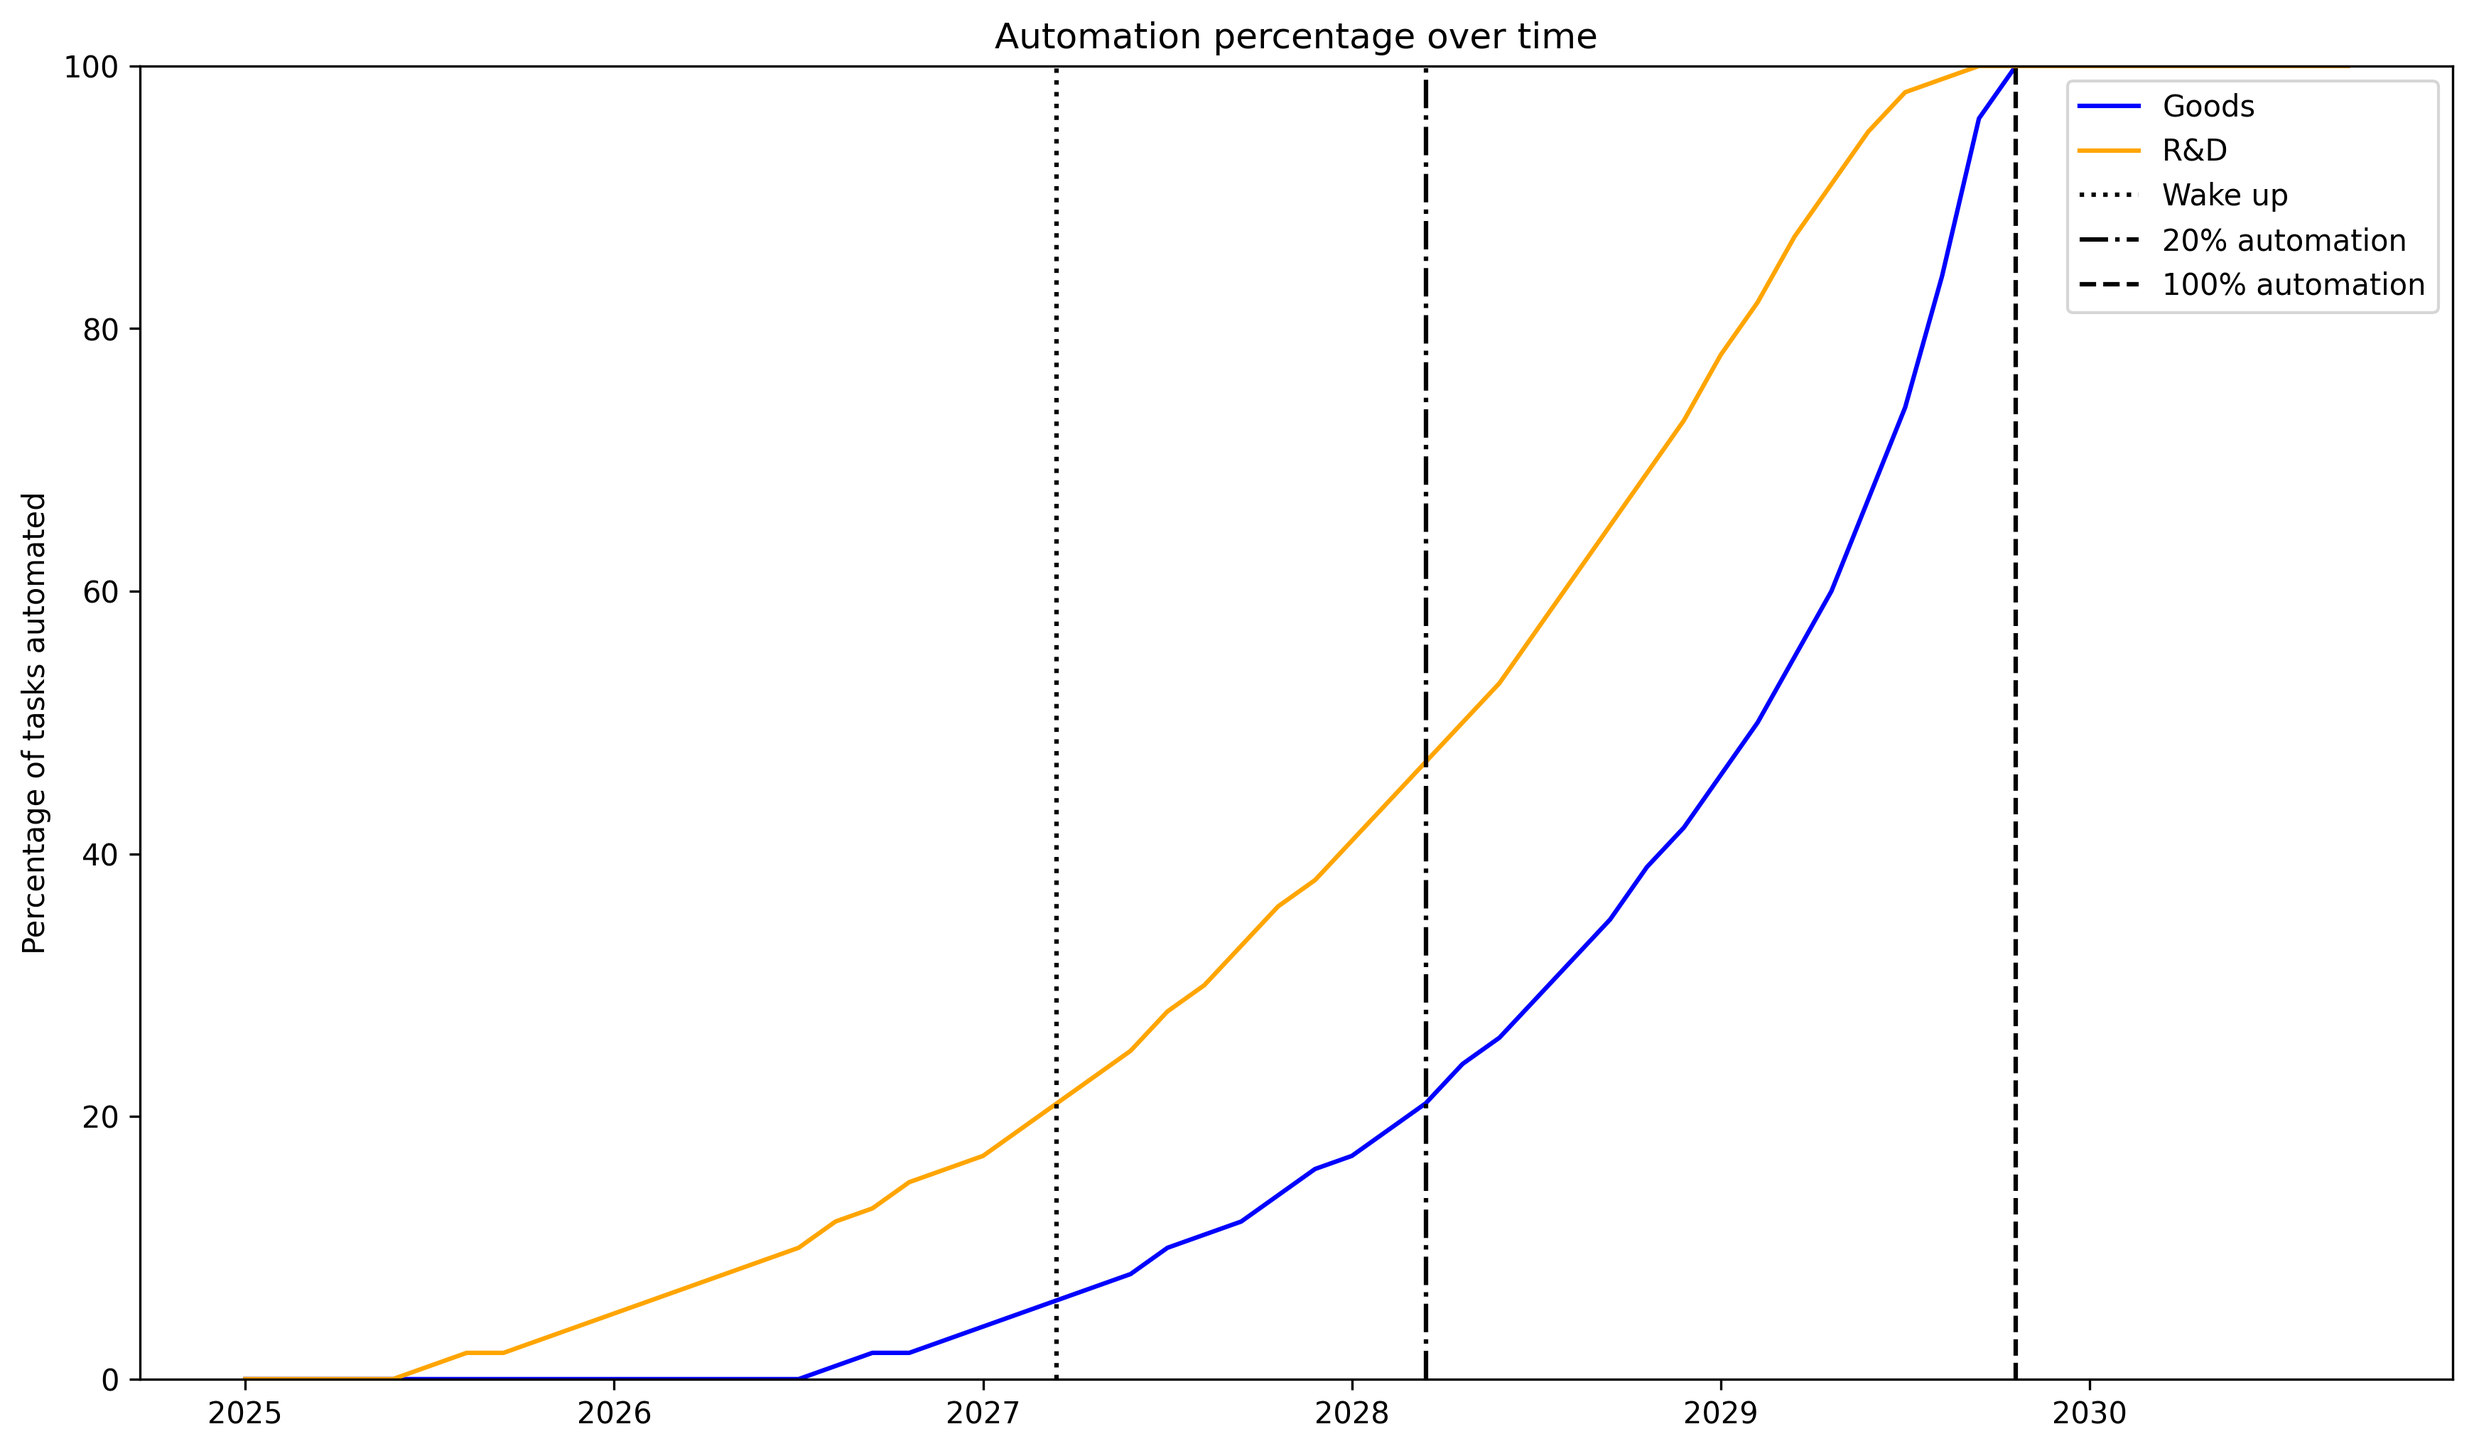
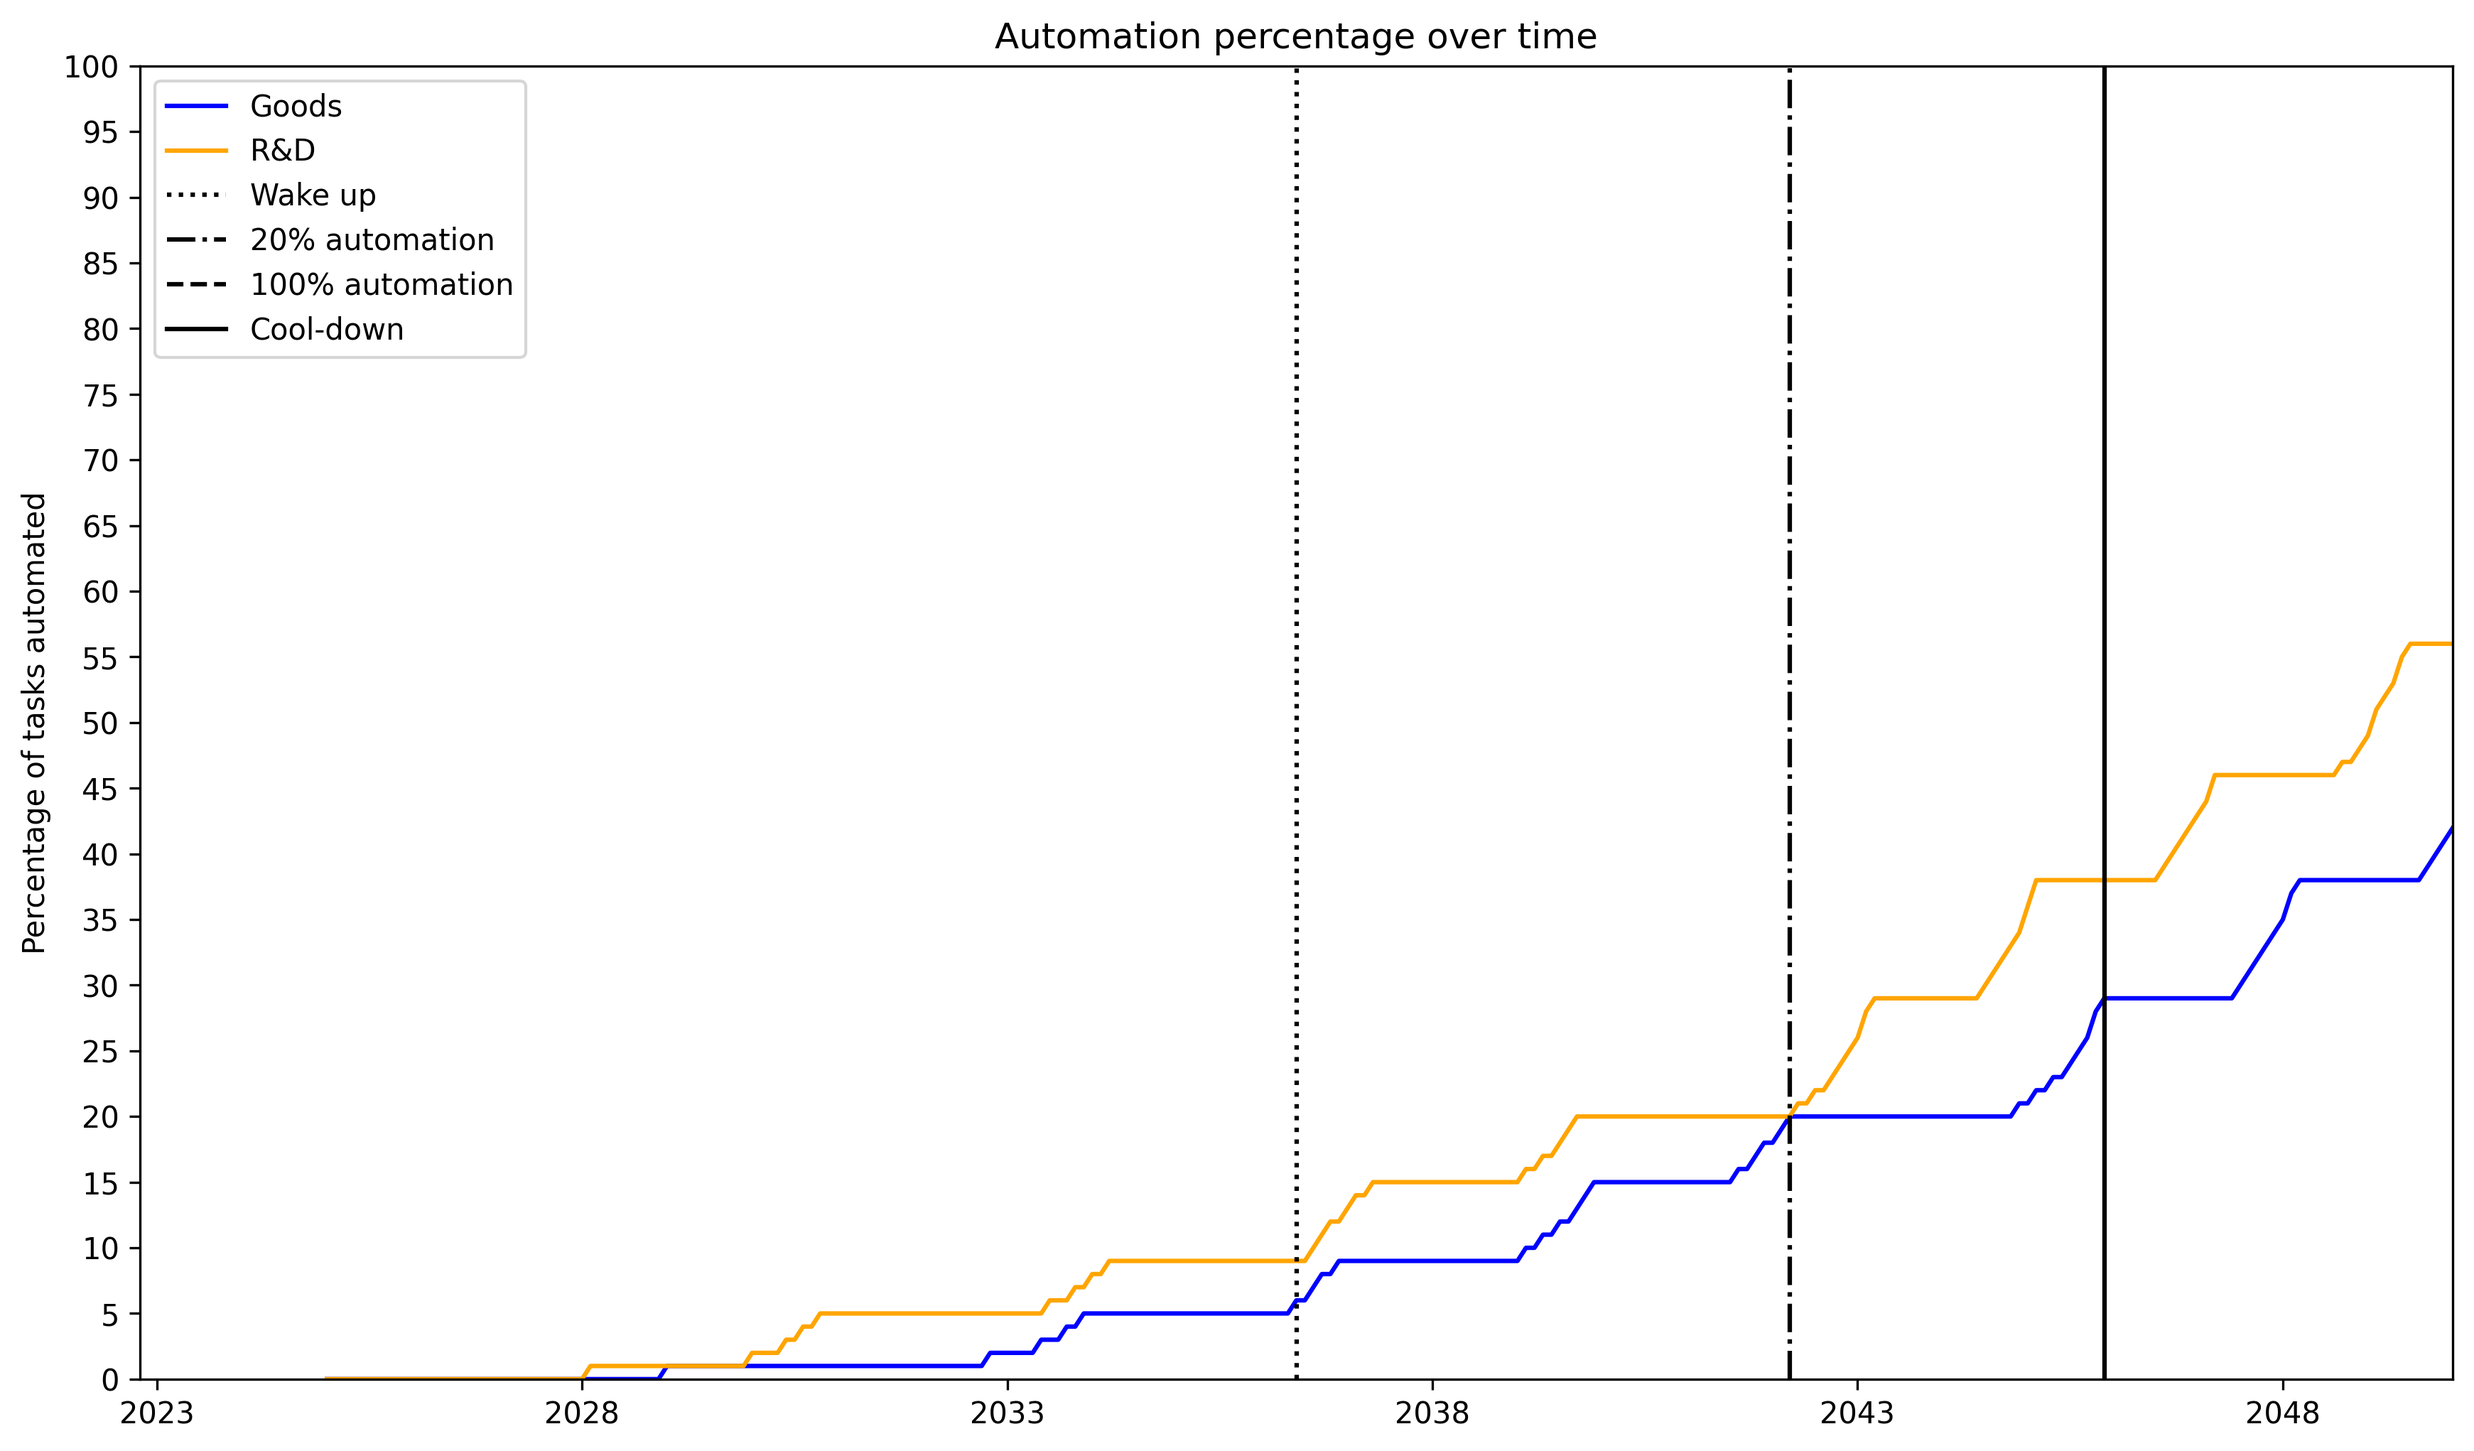
add cooldown mechanism and growth plots

diff --git a/ftm/core/model.py b/ftm/core/model.py
@@ -145,6 +145,21 @@ class SimulateTakeOff():
 
       # Metadata / feature flags
       runtime_training_tradeoff_enabled = True,
+
+      # Fractional inputs cooldown growth rates
+      frac_capital_hardware_rnd_growth_cooldown = 0,
+      frac_labour_hardware_rnd_growth_cooldown = 0,
+      frac_compute_hardware_rnd_growth_cooldown = 0,
+
+      frac_labour_software_rnd_growth_cooldown = 0,
+      frac_compute_software_rnd_growth_cooldown = 0,
+
+      frac_gwp_compute_growth_cooldown = -0.05,
+      frac_compute_training_growth_cooldown = -0.25,
+
+      # Cool-down trigger parameters
+      cooldown_threshold = 0.25,
+      cooldown_window = 2,
       ):
 
     if t_start is None: t_start = get_option('t_start', 2022)
@@ -395,6 +410,7 @@ class SimulateTakeOff():
     self.state_def.rampup = self.state_var(dtype=bool)
     self.rampup_start = None
     self.rampup_mid = None
+    self.cooldown_start = None  # first timestep entering cooldown
 
     # Goods vs compute investment split
     self.state_def.frac_gwp_compute = self.state_var()
@@ -414,6 +430,9 @@ class SimulateTakeOff():
     self.state_def.frac_capital_goods = self.state_var()
     self.state_def.frac_labour_goods = self.state_var()
     self.state_def.frac_compute_goods = self.state_var()
+
+    # Cool-down phase indicator (mirrors ramp-up but for slow automation periods)
+    self.state_def.cooldown = self.state_var(dtype=bool)
 
   def create_simulation_state_total_input(self):
     self.state_def.capital = self.state_var()
@@ -725,6 +744,9 @@ class SimulateTakeOff():
     self.frac_compute_goods[0] = \
       1 - self.frac_compute_hardware_rnd[0] - self.frac_compute_software_rnd[0] \
         - self.frac_compute_training[0]
+
+    # Initialise cool-down state
+    self.cooldown[0] = False
 
   #############################################################################
 
@@ -1301,14 +1323,48 @@ class SimulateTakeOff():
     not self.frac_automatable_tasks_goods_no_tradeoff[t_idx-2] >= 1:
       self.agi_year = t_year
 
-    def update_frac_input(current_frac, growth_param, growth_param_rampup, max_frac):
-      # Select the appropriate growth parameter (normal vs ramp-up) and
-      # convert it to a numeric value for the current timestep.
-      rate = self._param_value(
-        growth_param_rampup if self.rampup[t_idx] else growth_param,
-        t_idx,
-        t_year,
-      )
+    # ------------------------------------------------------------
+    # Cool-down detection: check relative increase in automation
+    # over a window *T* years. If the increase is below a threshold
+    # *x*, mark the current timestep as being in cool-down.
+    # ------------------------------------------------------------
+
+    cooldown_window = getattr(self, 'cooldown_window', 1.0)      # years
+    cooldown_threshold = getattr(self, 'cooldown_threshold', 0.05)  # 5 % relative
+
+    prev_cool = self.cooldown[t_idx-1] if t_idx > 1 else False
+    self.cooldown[t_idx] = False
+    window_idx = int(round(cooldown_window / self.t_step))
+    if t_idx - 1 - window_idx >= 0:
+      auto_now = self.frac_tasks_automated_goods[t_idx-1]
+
+      # Do not enter cool-down once the economy is fully automated
+      if auto_now < 1.0:
+        auto_prev = self.frac_tasks_automated_goods[t_idx-1-window_idx]
+        if auto_prev > 0:
+          rel_inc = (auto_now - auto_prev) / auto_prev
+        else:
+          rel_inc = np.inf  # Treat as large increase if base is ~0
+
+        self.cooldown[t_idx] = rel_inc < cooldown_threshold
+
+        # Store the first calendar year that cooldown begins
+        if self.cooldown[t_idx] and not prev_cool:
+          self.cooldown_start = t_year
+      else:
+        # Fully automated – never cool down afterwards
+        self.cooldown[t_idx] = False
+
+    def update_frac_input(current_frac, growth_param, growth_param_rampup, growth_param_cooldown, max_frac):
+      """Update a fractional input under normal, ramp-up, or cool-down."""
+      if self.rampup[t_idx]:
+        selected = growth_param_rampup
+      elif self.cooldown[t_idx]:
+        selected = growth_param_cooldown
+      else:
+        selected = growth_param
+
+      rate = self._param_value(selected, t_idx, t_year)
       frac = current_frac * np.exp(self.t_step * rate)
       return min(frac, max_frac)
 
@@ -1324,18 +1380,28 @@ class SimulateTakeOff():
       ]
 
     for frac_metric in frac_metrics:
-      getattr(self, frac_metric)[t_idx] =\
+      getattr(self, frac_metric)[t_idx] = \
         update_frac_input(
-          getattr(self,frac_metric)[t_idx-1],
-          getattr(self,f'{frac_metric}_growth'),
-          getattr(self,f'{frac_metric}_growth_rampup'),
-          getattr(self,f'{frac_metric}_ceiling'),
-          )
+          getattr(self, frac_metric)[t_idx-1],
+          getattr(self, f'{frac_metric}_growth'),
+          getattr(self, f'{frac_metric}_growth_rampup'),
+          getattr(self, f'{frac_metric}_growth_cooldown', 0),
+          getattr(self, f'{frac_metric}_ceiling'),
+        )
 
     # Cap the growth of the fraction of FLOP before rampup
     if self.money_spent_training[t_idx-1] > self.money_cap_training_before_wakeup \
     and not self.rampup[t_idx-1]:
       self.frac_compute_training[t_idx] = self.frac_compute_training[t_idx-1]
+
+    # ------------------------------------------------------------------------------------------------------------------
+    # Training compute shut-off after cool-down
+    # ------------------------------------------------------------------------------------------------------------------
+    # Once the economy enters a cool-down phase (or if it has been in cool-down before),
+    # we assume that scaling up model size is no longer economically attractive.  We
+    # therefore set the fraction of compute devoted to training to zero **permanently**.
+    if self.cooldown[t_idx] or (t_idx > 0 and self.frac_compute_training[t_idx-1] == 0):
+      self.frac_compute_training[t_idx] = 0.0
 
     # Goods production fractional inputs
     self.frac_capital_goods[t_idx] = \
@@ -1901,6 +1967,13 @@ class SimulateTakeOff():
                 color=line_color,
                 label='100% automation')
 
+    # Cool-down start vertical line
+    if getattr(self, 'cooldown_start', None) is not None:
+      plt.axvline(self.cooldown_start,
+                linestyle='solid',
+                color=line_color,
+                label='Cool-down')
+
   def plot_compute_decomposition(self, new_figure = True, crop_after_full_automation = True, crop_at_year = None):
     """ Show the growth of the factors that drive compute
     """
@@ -2143,15 +2216,43 @@ if __name__ == "__main__":
     parameter_table = get_parameter_table(tradeoff_enabled="from_spreadsheet")
     best_guess_parameters = {parameter : row['Best guess'] for parameter, row in parameter_table.iterrows()}
     model = SimulateTakeOff(**best_guess_parameters)
+    # Ensure `title` is always defined so that plot customisations work
+    title = getattr(model, 'title', None)
 
   model.run_simulation()
 
+  # ----------------------------
+  # Plot customisation settings
+  # ----------------------------
+  # If the JSON title corresponds to the "updated_conservative" scenario we want
+  # dedicated plot styling: only show every 5 calendar years on the x-axis and
+  # truncate all figures at (calendar) year 2050.
+  updated_conservative = (title == 'updated_conservative')
+  _YEAR_SHIFT = 3  # All existing plots display years shifted by +3
+  _PLOT_CAP_YEAR = 2050
+  _PLOT_CAP_X = _PLOT_CAP_YEAR - _YEAR_SHIFT  # coordinate after shift
+
+  def _customise_axis(ax):
+    """Apply the special x-axis formatting for the updated_conservative case."""
+    if not updated_conservative:
+      return
+    # Show a label every 5 years and cap the visible range.
+    ax.xaxis.set_major_locator(_mticker.MultipleLocator(5))
+    # Preserve existing left bound if present but cap the right bound.
+    xmin, xmax = ax.get_xlim()
+    xmin = xmin  # keep whatever is already set
+    ax.set_xlim(left=xmin, right=min(xmax, _PLOT_CAP_X))
+
+  # -------------------------------------------------------------------------
+  # Plot things
+  # -------------------------------------------------------------------------
   # Plot things
   model.plot('gwp', year_shift=3)
   # Label the main GWP curve for the legend
   if plt.gca().lines:
     plt.gca().lines[0].set_label('GWP')
   plt.legend()
+  _customise_axis(plt.gca())
 
   # Save the figure (do not display it)
   import os
@@ -2180,8 +2281,11 @@ if __name__ == "__main__":
   ax = plt.gca()
   ax.xaxis.set_major_formatter(_mticker.FuncFormatter(lambda val, pos: f"{int(val + 3)}"))
   ax.xaxis.set_major_locator(_mticker.MultipleLocator(1))
+  # Y-axis: ticks every 5 percentage points
+  ax.yaxis.set_major_locator(_mticker.MultipleLocator(5))
   plt.legend()
   plt.title('Automation percentage over time')
+  _customise_axis(ax)
 
   plt.savefig(os.path.join(plot_dir, 'automation_percent.png'), dpi=300, bbox_inches='tight')
   plt.close('all')
@@ -2191,10 +2295,26 @@ if __name__ == "__main__":
   # Largest training run plot (FLOP per year)
   plt.figure(figsize=(14,8), dpi=80)
   # Cap the x-axis at the year 2035 (or end of simulation if sooner)
-  cap_year = 2035
+  cap_year = 2050 if updated_conservative else 2035
   idx_end_lr = min(model.time_to_index(cap_year), model.t_idx)
   x = model.timesteps[:idx_end_lr]
   plt.plot(x, model.biggest_training_run[:idx_end_lr], color='green', label='Largest training run')
+  # Highlight peak and plateau if the series declines afterwards
+  y_lr = model.biggest_training_run[:idx_end_lr]
+  if len(y_lr) > 1:
+    peak_idx = int(np.argmax(y_lr))
+    peak_y = y_lr[peak_idx]
+    # Check whether the series declines after the peak
+    if peak_idx < len(y_lr) - 1 and y_lr[-1] < peak_y:
+      peak_x = x[peak_idx]
+      # Draw a horizontal dashed line from the peak to the end of the visible range
+      plt.hlines(peak_y, peak_x, x[-1], colors='red', linestyles='dashed', label='Peak largest run')
+      # Annotate the peak value (slightly above the line to avoid overlap)
+      plt.annotate(f"Peak: {peak_y:.2e}",
+                   xy=(peak_x, peak_y),
+                   xytext=(peak_x, peak_y * 1.1),
+                   arrowprops=dict(arrowstyle='->', color='red'),
+                   color='red')
   # Use logarithmic scale so the curve isn't squashed near zero and set a sensible lower bound
   plt.yscale('log')
   if len(model.biggest_training_run) > 0:
@@ -2211,5 +2331,53 @@ if __name__ == "__main__":
   # Add vertical milestone lines (wake-up, 20 % & 100 % automation)
   model._plot_vlines()
   plt.legend()
+  _customise_axis(ax)
   plt.savefig(os.path.join(plot_dir, 'largest_training_run.png'), dpi=300, bbox_inches='tight')
   plt.close('all')
+
+  # ----------------------------
+  # GWP yearly growth rate plot
+  # ----------------------------
+  delta_idx = int(1 / model.t_step)
+  cap_year_growth = 2050 if updated_conservative else 2035
+  idx_end_growth = min(model.time_to_index(cap_year_growth), model.t_idx)
+
+  x_growth = model.timesteps[delta_idx:idx_end_growth]
+  y_growth = np.log(model.gwp[delta_idx:idx_end_growth] / model.gwp[:idx_end_growth-delta_idx])
+
+  plt.figure(figsize=(14, 8), dpi=80)
+  plt.plot(x_growth, y_growth, color='black', label='GWP growth')
+  model._plot_vlines()
+
+  ax = plt.gca()
+  ax.xaxis.set_major_formatter(_mticker.FuncFormatter(lambda val, pos: f"{int(val + 3)}"))
+  # Use 2-year ticks to avoid crowded labels
+  ax.xaxis.set_major_locator(_mticker.MultipleLocator(2))
+  plt.legend()
+  plt.title('GWP yearly growth rate')
+  plt.ylabel('ln growth per year')
+  _customise_axis(ax)
+  plt.savefig(os.path.join(plot_dir, 'gwp_growth.png'), dpi=300, bbox_inches='tight')
+  plt.close('all')
+
+  # ----------------------------------------
+  # Largest training run yearly growth plot
+  # ----------------------------------------
+  idx_end_lr_growth = idx_end_lr  # same cap year selected above
+  if idx_end_lr_growth - delta_idx > 0:
+    x_lr_growth = model.timesteps[delta_idx:idx_end_lr_growth]
+    y_lr_growth = np.log(model.biggest_training_run[delta_idx:idx_end_lr_growth] / model.biggest_training_run[:idx_end_lr_growth-delta_idx])
+
+    plt.figure(figsize=(14, 8), dpi=80)
+    plt.plot(x_lr_growth, y_lr_growth, color='green', label='Largest training run growth')
+    model._plot_vlines()
+
+    ax = plt.gca()
+    ax.xaxis.set_major_formatter(_mticker.FuncFormatter(lambda val, pos: f"{int(val + 3)}"))
+    ax.xaxis.set_major_locator(_mticker.MultipleLocator(1))
+    plt.legend()
+    plt.title('Largest training run yearly growth rate')
+    plt.ylabel('ln growth per year')
+    _customise_axis(ax)
+    plt.savefig(os.path.join(plot_dir, 'largest_training_run_growth.png'), dpi=300, bbox_inches='tight')
+    plt.close('all')
